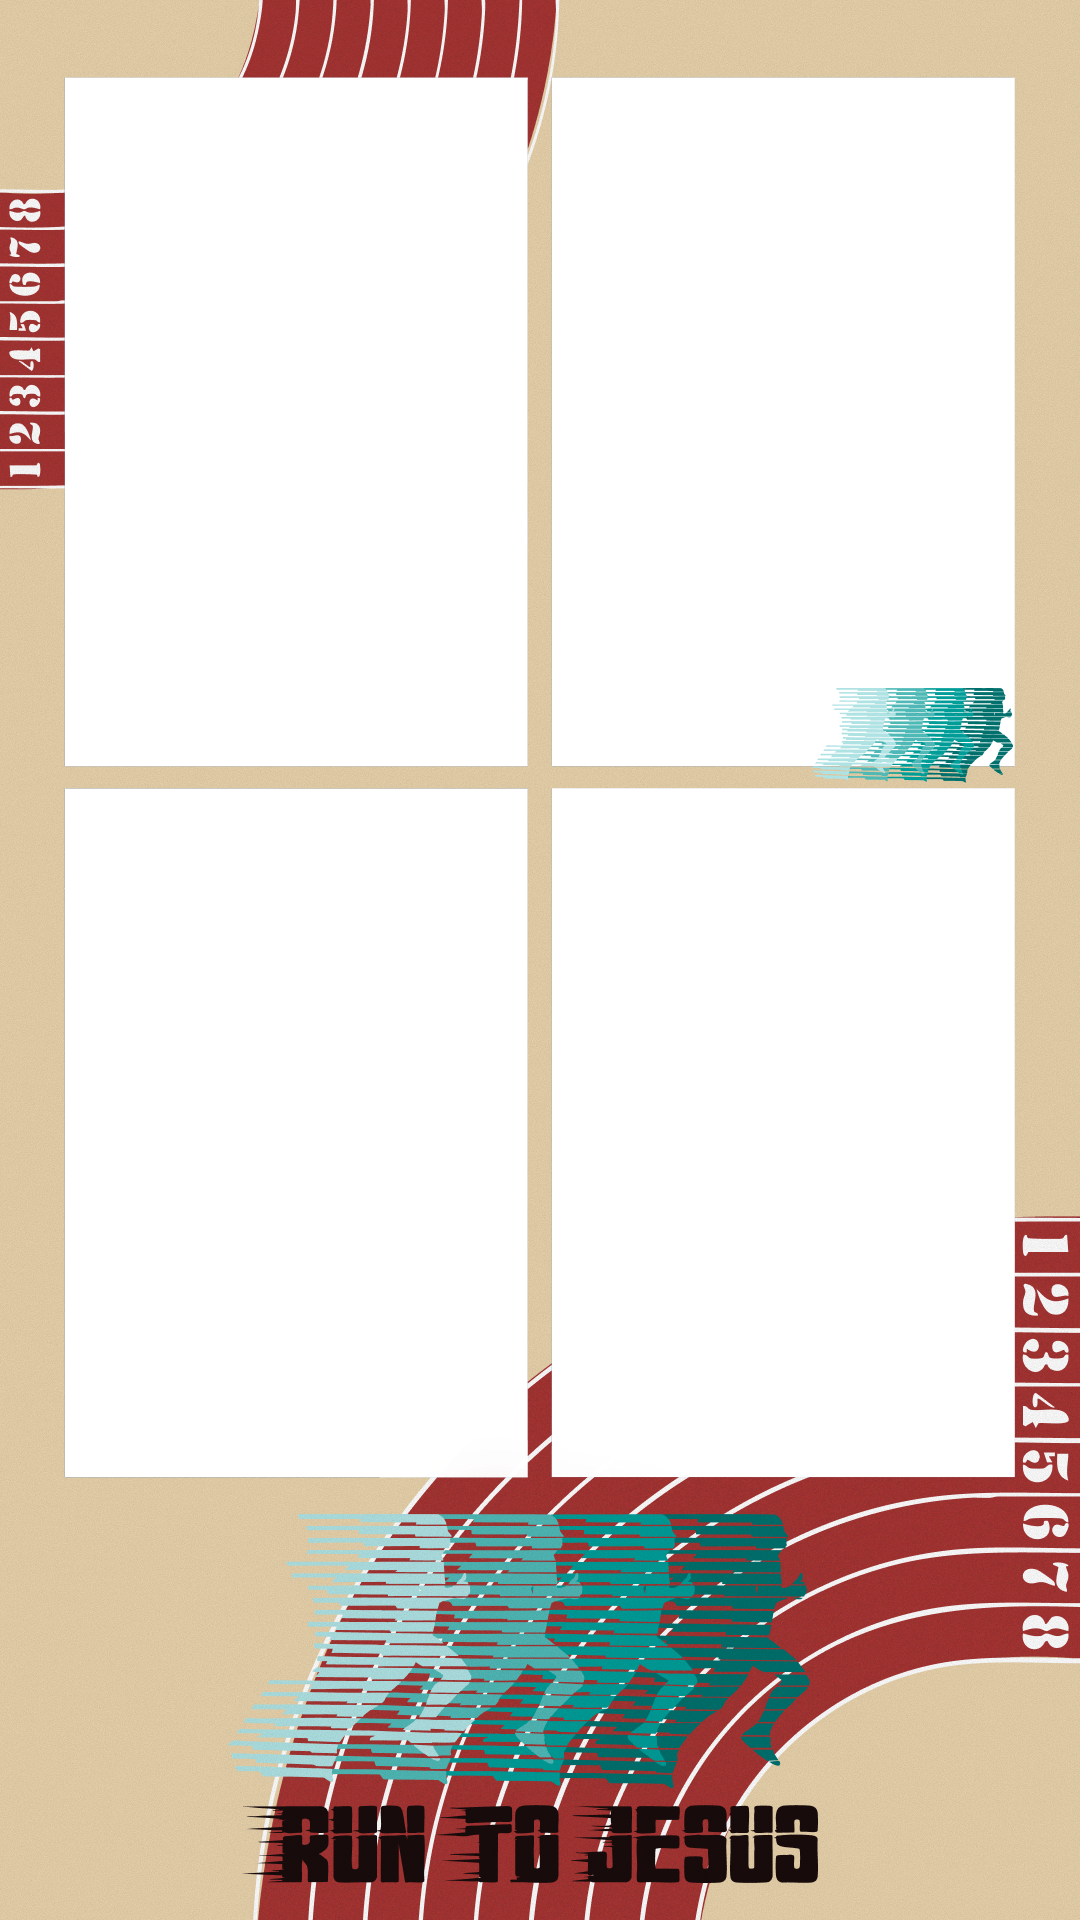
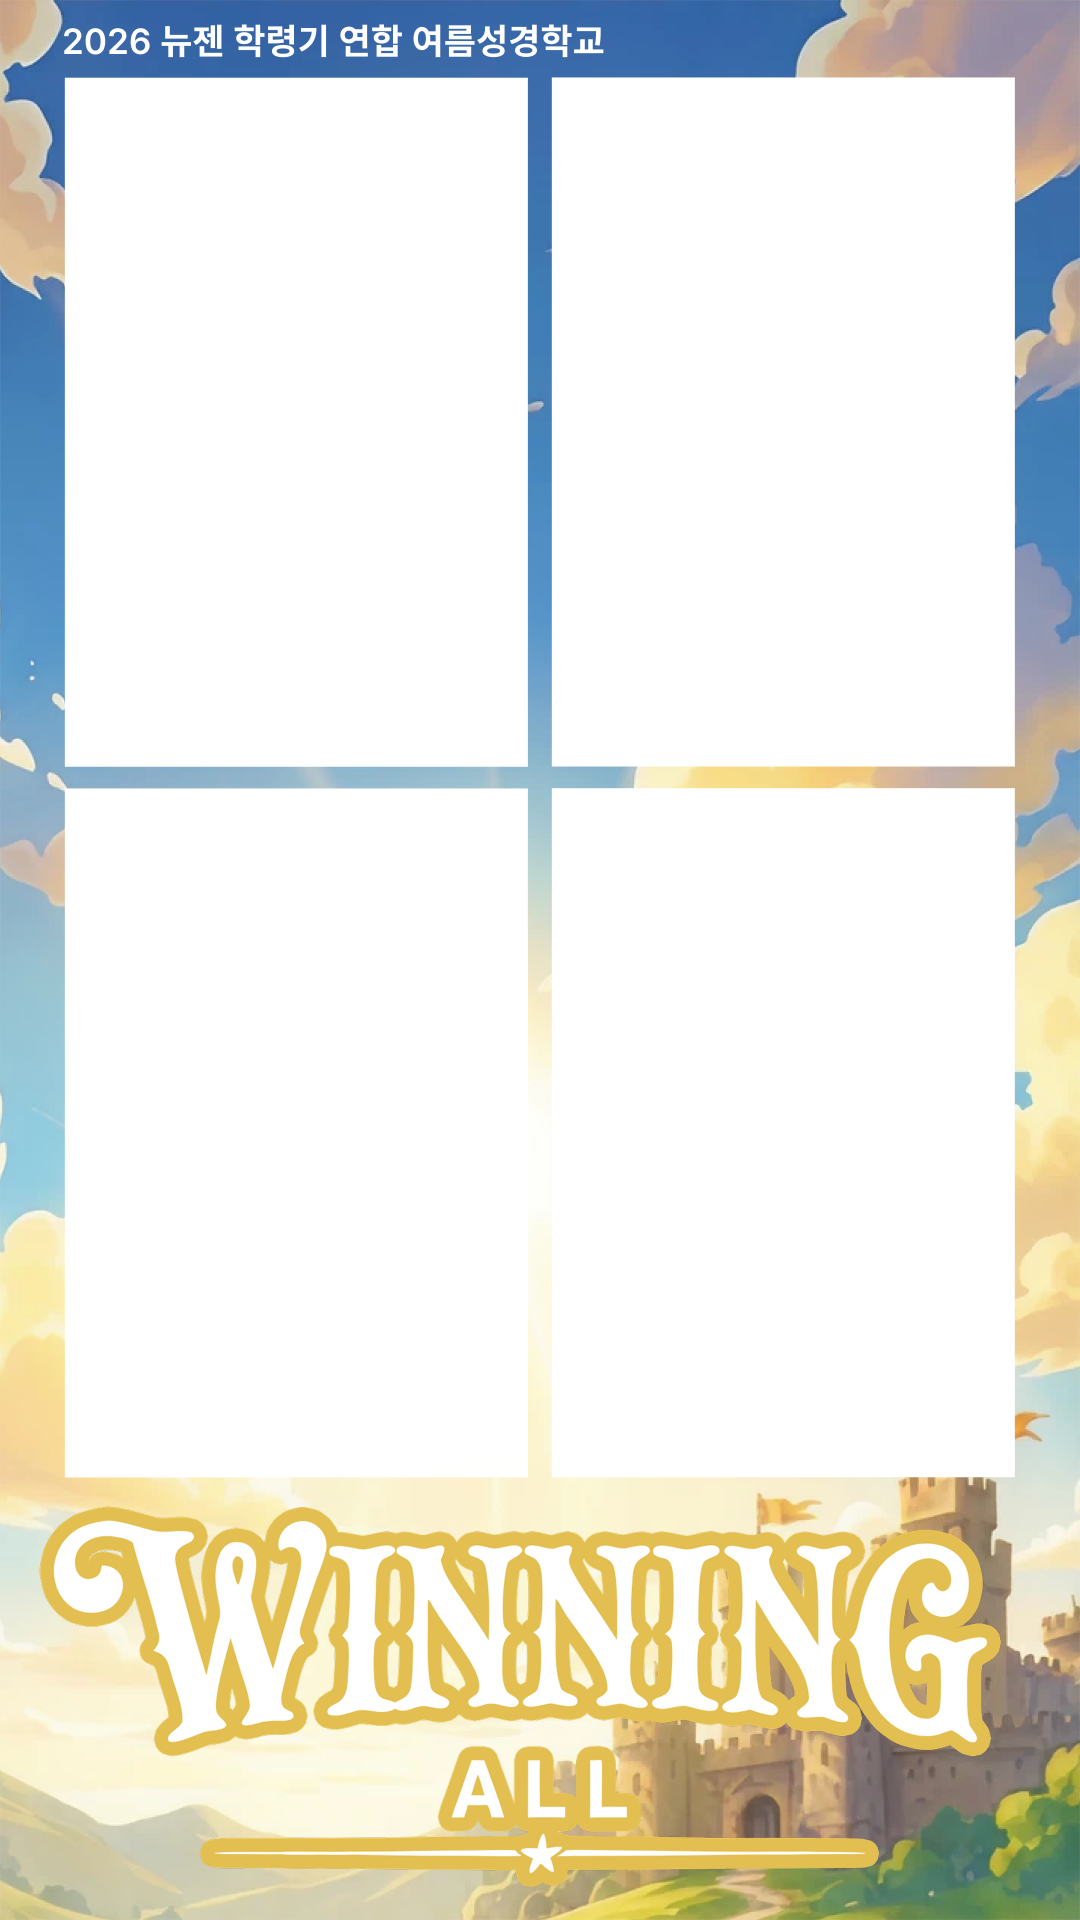
Update frames: use frame_0001 and frame_0001_circle

diff --git a/frontend/src/utils/composer.js b/frontend/src/utils/composer.js
@@ -3,25 +3,18 @@
 export const FRAME_OPTIONS = [
   {
     id: 'frame0001',
-    name: 'FRAME 0001',
+    name: '기본 프레임',
     color: '#ffffff',
-    preview: '/frames/frame_0001_button.png',
+    preview: '/frames/frame_0001.png',
     src: '/frames/frame_0001.png',
   },
   {
-    id: 'frame0002',
-    name: 'FRAME 0002',
+    id: 'frame0001_circle',
+    name: '둥근 프레임',
     color: '#ffffff',
-    preview: '/frames/frame_0002_button.png',
-    src: '/frames/frame_0002.png',
-  },
-  {
-    id: 'frame0003',
-    name: 'FRAME 0003',
-    color: '#ffffff',
-    preview: '/frames/frame_0003_button.png',
-    src: '/frames/frame_0003.png',
-  },
+    preview: '/frames/frame_0001_circle.png',
+    src: '/frames/frame_0001_circle.png',
+  }
 ];
 
 export const FILTER_OPTIONS = [
